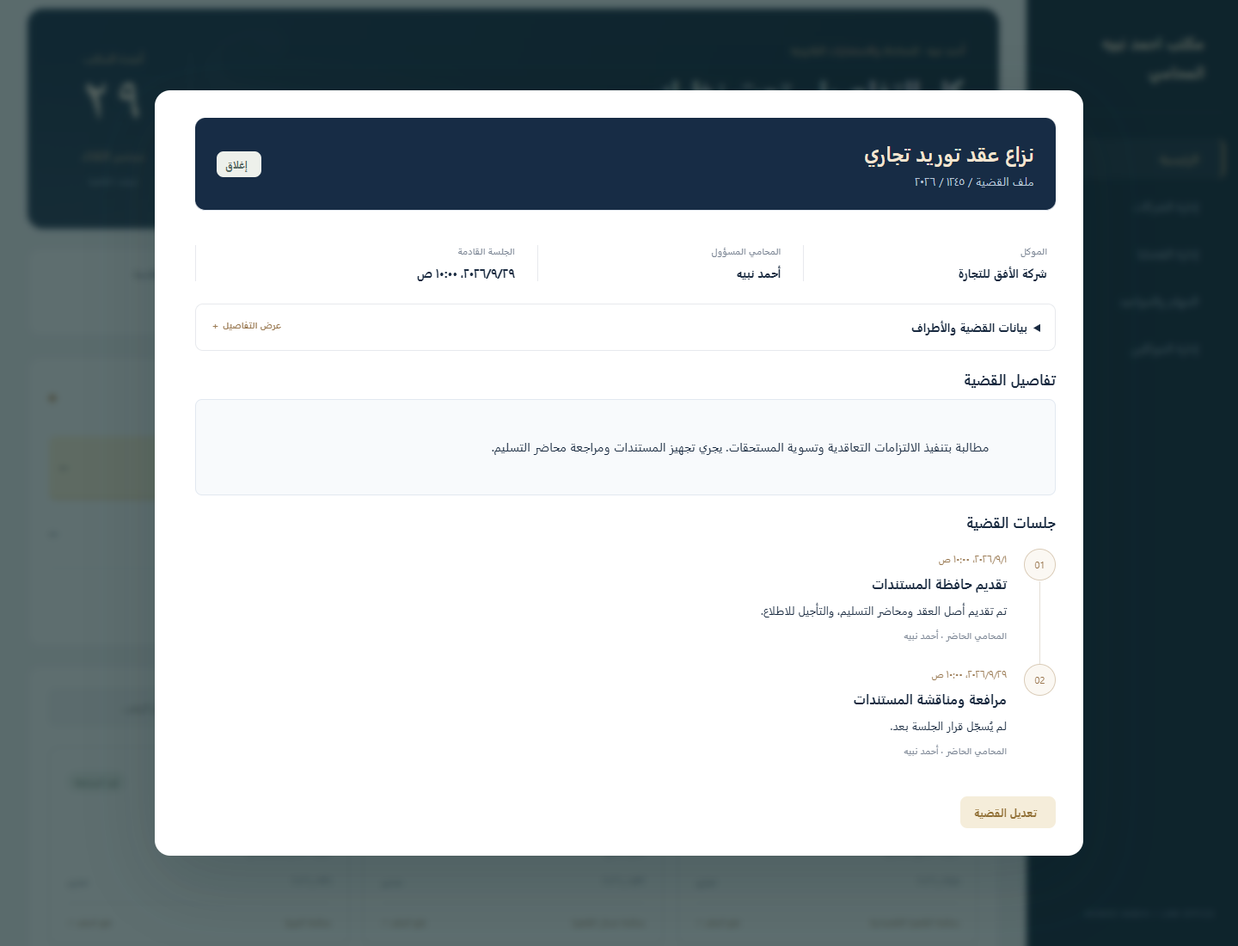
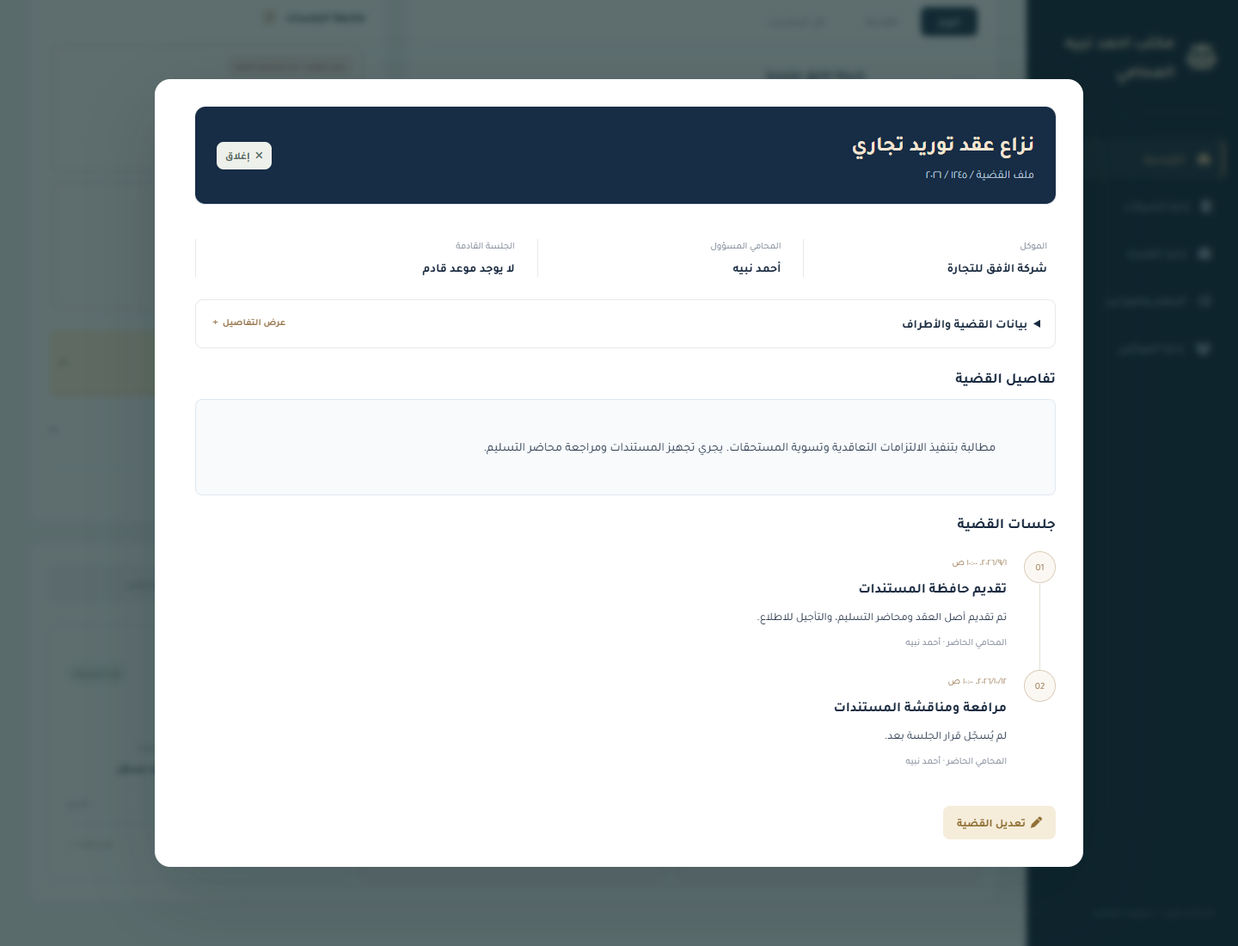
changes

diff --git a/experience.js b/experience.js
@@ -1,9 +1,30 @@
 /* Office overview: existing records and permissions remain the source of truth. */
 (() => {
   const e = escapeHtml;
-  const state = {sessions: [], tasks: [], filter: 'today', query: '', error: '', version: 0};
+  const state = {sessions: [], tasks: [], filter: 'today', query: '', error: '', version: 0, loaded: false, userId: null};
   const today = () => sessionDateForInput(new Date().toISOString()).slice(0, 10);
   const dateOf = value => value ? sessionDateForInput(value).slice(0, 10) : '';
+  const timestampOf = value => {
+    if (!value) return NaN;
+    try {
+      return Date.parse(/(Z|[+-]\d{2}:?\d{2})$/i.test(value) ? value : sessionDateForStorage(value));
+    } catch { return NaN; }
+  };
+  function caseSchedule(item, now = Date.now()) {
+    const dated = state.sessions.filter(s => String(s.case_id) === String(item.id))
+      .map(s => ({session: s, time: timestampOf(s.session_date)}))
+      .filter(s => Number.isFinite(s.time)).sort((a,b) => a.time - b.time);
+    const latest = dated.at(-1);
+    const next = dated.find(s => s.time >= now);
+    const overdue = Boolean(latest && latest.time < now && !['تمت','مؤرشفة'].includes(item.status));
+    return {latest, next, overdue};
+  }
+  function scheduleLabel(item) {
+    if (!state.loaded) return '<span class="case-session-note">جارٍ تحميل الجلسات…</span>';
+    if (state.error) return '<span class="case-session-note">تعذر تحميل موعد الجلسة</span>';
+    const {latest, overdue} = caseSchedule(item);
+    return `<span class="case-session-label">آخر جلسة مسجّلة</span><strong>${latest ? e(formatSessionDate(latest.session.session_date)) : 'لا يوجد موعد مسجّل'}</strong>${overdue ? '<span class="session-badge session-overdue">عدّى الموعد · حدّد الجلسة التالية</span>' : ''}`;
+  }
   const go = id => {
     const link = [...document.querySelectorAll('.sidebar a')].find(a => a.getAttribute('onclick')?.includes(`'${id}'`));
     switchPage(id, link);
@@ -26,12 +47,17 @@
   dock.innerHTML = `<button class="active" data-go="dashboard"><span>⌂</span>الرئيسية</button><button data-go="cases"><span>▤</span>القضايا</button><button data-go="tasks"><span>✓</span>المهام</button><button data-go="clients"><span>♙</span>الموكلون</button>`;
   document.body.append(dock);
   document.addEventListener('click', event => {
-    const button = event.target.closest('[data-go], [data-open-case], [data-period]');
+    const button = event.target.closest('[data-go], [data-open-case], [data-edit-case], [data-period]');
     if (!button) return;
     if (button.dataset.go) go(button.dataset.go);
     if (button.dataset.openCase) {
       const item = allCasesCache.find(c => String(c.id) === button.dataset.openCase);
       if (item) openCaseDetails(item.id);
+    }
+    if (button.dataset.editCase && isAdmin()) {
+      go('cases');
+      const item = allCasesCache.find(c => String(c.id) === button.dataset.editCase);
+      if (item) openEditModal(item.id);
     }
     if (button.dataset.period) {
       state.filter = button.dataset.period;
@@ -42,41 +68,68 @@
   document.getElementById('officeSearch').addEventListener('input', event => {state.query = event.target.value.trim().toLocaleLowerCase('ar');renderCards();});
   function renderCards() {
     const items = allCasesCache.filter(c => [c.name,c.client_name,c.case_number,c.court_name].some(v => String(v || '').toLocaleLowerCase('ar').includes(state.query)));
-    document.getElementById('officeCases').innerHTML = items.length ? items.slice(0,12).map(c => `<button class="case-card" data-open-case="${e(String(c.id))}"><div class="case-card-top"><span class="case-monogram">§</span><span class="case-status">${e(c.status || 'غير محددة')}</span></div><h3>${e(c.name || 'قضية بدون عنوان')}</h3><p>${e(c.client_name || 'لم يُحدد الموكل')}</p><div class="case-card-meta"><span>${e(c.case_number || '—')} / ${e(c.case_year || '—')}</span><span>${e(c.case_type || 'قضية')}</span></div><footer><span>${e(c.court_name || 'المحكمة غير محددة')}</span><span>فتح الملف ↗</span></footer></button>`).join('') : '<p class="empty-state">لا توجد قضايا مطابقة.</p>';
+    document.getElementById('officeCases').innerHTML = items.length ? items.map(c => `<button class="case-card${state.loaded && !state.error && caseSchedule(c).overdue ? ' case-needs-session' : ''}" data-open-case="${e(String(c.id))}"><div class="case-card-top"><span class="case-monogram">§</span><span class="case-status">${e(c.status || 'غير محددة')}</span></div><h3>${e(c.name || 'قضية بدون عنوان')}</h3><div class="case-client-session"><span class="case-client">${e(c.client_name || 'لم يُحدد الموكل')}</span><span class="case-session">${scheduleLabel(c)}</span></div><div class="case-card-meta"><span>${e(c.case_number || '—')} / ${e(c.case_year || '—')}</span><span>${e(c.case_type || 'قضية')}</span></div><footer><span>${e(c.court_name || 'المحكمة غير محددة')}</span><span>فتح الملف ↗</span></footer></button>`).join('') : '<p class="empty-state">لا توجد قضايا مطابقة.</p>';
+  }
+  function renderSessionReminders(day) {
+    if (!state.loaded) return '<p class="empty-state">جارٍ تحميل متابعة الجلسات…</p>';
+    if (state.error) return '<p class="empty-state">تعذر تحميل متابعة الجلسات.</p>';
+    const tomorrow = new Date(day + 'T12:00:00Z');
+    tomorrow.setUTCDate(tomorrow.getUTCDate() + 1);
+    const nextDay = tomorrow.toISOString().slice(0,10);
+    const reminders = allCasesCache.filter(c => !['تمت','مؤرشفة'].includes(c.status)).map(c => {
+      const schedule = caseSchedule(c);
+      return {c, ...schedule, due: schedule.overdue ? schedule.latest : schedule.next};
+    }).filter(r => r.overdue || (r.due && dateOf(r.due.session.session_date) <= nextDay))
+      .sort((a,b) => Number(b.overdue) - Number(a.overdue) || a.due.time - b.due.time);
+    if (!reminders.length) return '<p class="empty-state">لا توجد جلسات تحتاج متابعة اليوم أو غدًا.</p>';
+    return `<h3 class="session-reminders-heading">متابعة الجلسات <span>${reminders.length}</span></h3><div class="session-reminders">${reminders.map(({c,due,overdue}) => {
+      const label = overdue ? 'عدّى الموعد · حدّد الجلسة التالية' : dateOf(due.session.session_date) === day ? 'جلسة اليوم' : 'جلسة غدًا';
+      return `<div class="session-reminder${overdue ? ' session-reminder-overdue' : ''}"><button class="session-reminder-main" data-open-case="${e(String(c.id))}"><span class="session-badge ${overdue ? 'session-overdue' : 'session-upcoming'}">${label}</span><strong>${e(c.client_name || 'لم يُحدد الموكل')}</strong><small>${e(c.name || 'قضية بدون عنوان')} · ${e(formatSessionDate(due.session.session_date))}</small></button>${isAdmin() ? `<button class="session-followup" data-edit-case="${e(String(c.id))}">تحديث الجلسات ←</button>` : ''}</div>`;
+    }).join('')}</div>`;
   }
   function render() {
     const day = today();
-    const sessions = state.sessions.filter(s => allCasesCache.some(c => c.id === s.case_id));
+    const sessions = state.sessions.filter(s => Number.isFinite(timestampOf(s.session_date)) && allCasesCache.some(c => String(c.id) === String(s.case_id))).sort((a,b)=>timestampOf(a.session_date)-timestampOf(b.session_date));
     const visible = sessions.filter(s => state.filter === 'all' || (state.filter === 'today' ? dateOf(s.session_date) === day : dateOf(s.session_date) > day));
     document.getElementById('daySummary').textContent = `${sessions.filter(s => dateOf(s.session_date) === day).length} جلسات اليوم · ${state.tasks.filter(t=>!t.completed).length} مهام مفتوحة. يوم منظم يبدأ بصورة واضحة.`;
     document.getElementById('officeAgenda').innerHTML = state.error ? `<p class="empty-state">${e(state.error)}</p><button class="btn btn-secondary" id="retryAgenda">إعادة المحاولة</button>` : visible.length ? visible.slice(0,20).map(s => {
-      const c = allCasesCache.find(c=>c.id===s.case_id);
+      const c = allCasesCache.find(c=>String(c.id)===String(s.case_id));
       const label = s.session_date ? formatSessionDate(s.session_date) : 'بدون موعد';
-      return `<button class="agenda-row" data-open-case="${e(String(c.id))}"><span class="agenda-time">${e(label)}</span><span class="agenda-info"><strong>${e(c.name)}</strong><small>${e(s.session_subject || c.court_name || 'جلسة')} · ${e(s.attending_lawyer || 'المحامي غير محدد')}</small></span><span class="row-arrow">↗</span></button>`;
+      return `<button class="agenda-row" data-open-case="${e(String(c.id))}"><span class="agenda-time">${e(label)}</span><span class="agenda-info"><strong>${e(c.client_name || 'لم يُحدد الموكل')}</strong><small>${e(c.name)} · ${e(s.session_subject || c.court_name || 'جلسة')} · ${e(s.attending_lawyer || 'المحامي غير محدد')}</small></span><span class="row-arrow">↗</span></button>`;
     }).join('') : '<div class="quiet-state"><span>✓</span><h3>لا توجد جلسات في هذه الفترة</h3><p>يمكنك اختيار فترة أخرى أو إضافة جلسة من ملف القضية.</p></div>';
     document.getElementById('retryAgenda')?.addEventListener('click',window.refreshOfficeSessions);
     const overdue = state.tasks.filter(t=>!t.completed && (t.is_important || (t.due_date && t.due_date < day))).sort((a,b)=>Number(!!b.is_important)-Number(!!a.is_important));
-    document.getElementById('officePriorities').innerHTML = overdue.length ? overdue.slice(0,4).map(t=>`<button class="priority-item ${t.is_important ? 'task-important' : ''}" data-go="tasks"><span class="priority-mark">!</span><span><strong>${e(t.title || 'مهمة')}</strong><small>${t.is_important ? '★ مهمة جدًا · ' : ''}${t.due_date && t.due_date < day ? 'متأخرة · ' : ''}${e(t.due_date || 'بدون موعد')}</small></span><span>←</span></button>`).join('') : '<div class="quiet-state"><span>✓</span><h3>لا توجد مهام مهمة جدًا أو متأخرة</h3><p>تابع المهام القادمة للحفاظ على سير العمل.</p></div>';
+    document.getElementById('officePriorities').innerHTML = renderSessionReminders(day) + (overdue.length ? overdue.slice(0,4).map(t=>`<button class="priority-item ${t.is_important ? 'task-important' : ''}" data-go="tasks"><span class="priority-mark">!</span><span><strong>${e(t.title || 'مهمة')}</strong><small>${t.is_important ? '★ مهمة جدًا · ' : ''}${t.due_date && t.due_date < day ? 'متأخرة · ' : ''}${e(t.due_date || 'بدون موعد')}</small></span><span>←</span></button>`).join('') : '<div class="quiet-state"><span>✓</span><h3>لا توجد مهام مهمة جدًا أو متأخرة</h3><p>تابع المهام القادمة للحفاظ على سير العمل.</p></div>');
     renderCards();
   }
   window.updateOfficeTasks = tasks => {state.tasks = tasks || [];render();};
   window.refreshOfficeSessions = async () => {
-    if (!currentUser) return;
+    if (!currentUser) {state.version++;state.sessions=[];state.loaded=false;state.userId=null;state.tasks=[];state.error='';render();return;}
     const version = ++state.version, userId = currentUser.id;
+    if (state.userId !== userId) {state.sessions=[];state.loaded=false;state.error='';state.userId=userId;render();}
     try {
-      const {data,error} = await db.from('case_sessions').select('*').order('session_date',{ascending:true});
-      if (version !== state.version || currentUser?.id !== userId) return;
-      if (error) throw error;
-      state.sessions = data || []; state.error = '';
-    } catch { if (version !== state.version || currentUser?.id !== userId) return; state.sessions=[];state.error='تعذر تحميل الجلسات. تحقق من الاتصال وأعد المحاولة.'; }
+      // Read every page: older history must not hide the latest scheduled session.
+      const sessions = [], pageSize = 500;
+      for (let start = 0; ; start += pageSize) {
+        const {data,error} = await db.from('case_sessions').select('*').order('id',{ascending:true}).range(start,start + pageSize - 1);
+        if (version !== state.version || currentUser?.id !== userId) return;
+        if (error) throw error;
+        sessions.push(...(data || []));
+        if (!data || data.length < pageSize) break;
+      }
+      state.sessions = sessions; state.error = ''; state.loaded=true;
+    } catch { if (version !== state.version || currentUser?.id !== userId) return; state.sessions=[];state.loaded=true;state.error='تعذر تحميل الجلسات. تحقق من الاتصال وأعد المحاولة.'; }
     render();
   };
+  // Keep reminders current when a session time passes while the dashboard stays open.
+  setInterval(() => {if (currentUser && !document.hidden) render();}, 60000);
+  document.addEventListener('visibilitychange', () => {if (!document.hidden && currentUser) window.refreshOfficeSessions();});
   window.enhanceCaseWorkspace = (overlay,item,sessions) => {
     overlay.classList.add('case-workspace');
     const modal = overlay.querySelector('.details-modal');
     const heading = modal.querySelector('h2'); heading.textContent = item.name || 'ملف القضية';
     modal.querySelector('.details-modal-header small').textContent = `ملف القضية / ${item.case_number || '—'} / ${item.case_year || '—'}`;
-    const next = sessions.find(s=>s.session_date && dateOf(s.session_date)>=today());
+    const next = sessions.filter(s=>timestampOf(s.session_date)>=Date.now()).sort((a,b)=>timestampOf(a.session_date)-timestampOf(b.session_date))[0];
     const brief = document.createElement('div'); brief.className='case-brief';
     brief.innerHTML=`<div><span>الموكل</span><strong>${e(item.client_name || 'غير محدد')}</strong></div><div><span>المحامي المسؤول</span><strong>${e(item.assigned_lawyer || 'غير محدد')}</strong></div><div><span>الجلسة القادمة</span><strong>${next ? e(formatSessionDate(next.session_date)) : 'لا يوجد موعد قادم'}</strong></div>`;
     modal.querySelector('.details-modal-header').after(brief);

diff --git a/preview/index.html b/preview/index.html
@@ -2,7 +2,14 @@
 <html lang="ar" dir="rtl">
 <head>
     <meta charset="UTF-8">
-    <meta name="viewport" content="width=device-width, initial-scale=1.0">
+    <meta name="viewport" content="width=device-width, initial-scale=1.0, viewport-fit=cover">
+    <meta name="theme-color" content="#14253b">
+    <meta name="apple-mobile-web-app-capable" content="yes">
+    <meta name="apple-mobile-web-app-status-bar-style" content="default">
+    <meta name="apple-mobile-web-app-title" content="مكتب أحمد نبيه">
+
+    <link rel="icon" type="image/png" sizes="192x192" href="../icons/icon-192.png">
+    <link rel="apple-touch-icon" sizes="180x180" href="../icons/apple-touch-icon.png">
     <title>نظام إدارة مكتب احمد نبيه المحامي والشركات</title>
     <link rel="stylesheet" href="https://cdnjs.cloudflare.com/ajax/libs/font-awesome/6.4.0/css/all.min.css">
     <link href="https://fonts.googleapis.com/css2?family=Tajawal:wght@400;500;700&display=swap" rel="stylesheet">
@@ -299,8 +306,9 @@
     </style>
     <link rel="stylesheet" href="../theme.css">
     <!-- Supabase CDN -->
-    
+
 <link rel="stylesheet" href="../experience.css">
+    <link rel="stylesheet" href="../pwa.css">
 </head>
 
 <body>
@@ -310,6 +318,7 @@
             <div class="login-icon"><i class="fa-solid fa-scale-balanced"></i></div>
             <h2>مكتب احمد نبيه المحامي</h2>
             <p>تسجيل الدخول إلى النظام</p>
+            <button type="button" class="install-button install-login" data-install-app hidden><img src="../icons/icon-192.png" alt="" width="32" height="32"><span>المكتب معاك في كل مكان<small>إضافة التطبيق للشاشة الرئيسية</small></span><span aria-hidden="true">＋</span></button>
 
             <form id="loginForm" class="auth-form">
                 <div class="login-group">
@@ -369,6 +378,7 @@
             <button class="btn menu-toggle" type="button" aria-label="فتح القائمة" aria-expanded="false"><i class="fa-solid fa-bars"></i></button>
             <div class="header-context"><span>مساحة العمل</span><strong id="workspaceTitle">نظرة عامة</strong></div>
             <div class="user-info">
+                <button type="button" class="install-button install-header" data-install-app hidden aria-label="إضافة التطبيق للشاشة الرئيسية">＋ تثبيت التطبيق</button>
                 <i class="fa-solid fa-circle-user fa-lg"></i>
                 <span id="currentUserGreeting">جاري تحميل المستخدم...</span>
                 <button type="button" class="logout-btn" onclick="logoutUser()"><i class="fa-solid fa-right-from-bracket"></i> خروج</button>
@@ -528,6 +538,7 @@
 
                 <div class="panel">
                     <div class="panel-header"><h2>دليل الشركات المسجلة</h2></div>
+                    <div class="form-group management-search"><label for="companiesSearch">بحث في الشركات</label><input type="search" id="companiesSearch" placeholder="اسم الشركة، الرقم الضريبي أو بيانات التواصل" oninput="renderCompaniesTable(allCompaniesCache)"></div>
                     <table>
                         <thead>
                             <tr>
@@ -570,6 +581,7 @@
                         </div>
                         <div class="form-group"><label>رقم القضية</label><input type="text" id="caseNumber"></div>
                         <div class="form-group"><label>السنة</label><input type="text" id="caseYear" value="2026"></div>
+                        <div class="form-group"><label for="caseDescription">الوصف</label><input type="text" id="caseDescription"></div>
                         <div class="form-group"><label>المحكمة</label><input type="text" id="courtName"></div>
                         <div class="form-group"><label>الدائرة</label><input type="text" id="courtBranch"></div>
                         <div class="form-group"><label>المحامي المسؤول</label><input type="text" id="assignedLawyer"></div>
@@ -619,14 +631,15 @@
 
                 <div class="panel">
                     <div class="panel-header"><h2>جدول القضايا الشامل</h2></div>
+                    <div class="form-group management-search"><label for="casesSearch">بحث في القضايا</label><input type="search" id="casesSearch" placeholder="اسم القضية، الموكل، الخصم، الرقم أو المحكمة" oninput="renderCasesTable(allCasesCache)"></div>
                     <table style="width:100%;">
                         <thead>
                             <tr>
-                                <th>اسم القضية</th><th>الموكل</th><th>الخصم</th><th>النوع</th><th>رقم القضية/السنة</th><th>المحكمة / الدائرة</th><th>المحامي المسؤول</th><th>المرفق</th><th>الحالة</th><th>إجراءات</th>
+                                <th>اسم القضية</th><th>الموكل</th><th>الخصم</th><th>النوع</th><th>رقم القضية/السنة</th><th>الوصف</th><th>المحكمة / الدائرة</th><th>المحامي المسؤول</th><th>المرفق</th><th>الحالة</th><th>إجراءات</th>
                             </tr>
                         </thead>
                         <tbody id="casesTableBody">
-                            <tr><td colspan="10">جاري تحميل البيانات...</td></tr>
+                            <tr><td colspan="11">جاري تحميل البيانات...</td></tr>
                         </tbody>
                     </table>
                 </div>
@@ -685,6 +698,7 @@
 
                 <div class="panel">
                     <div class="panel-header"><h2>قائمة الموكلين</h2></div>
+                    <div class="form-group management-search"><label for="clientsSearch">بحث في الموكلين</label><input type="search" id="clientsSearch" placeholder="اسم الموكل أو رقم الهاتف" oninput="renderClientsTable(allClientsCache)"></div>
                     <table>
                         <thead>
                             <tr>
@@ -819,6 +833,7 @@
                 <div class="form-group"><label>نوع القضية</label><input type="text" id="editCaseType"></div>
                 <div class="form-group"><label>رقم القضية</label><input type="text" id="editCaseNumber"></div>
                 <div class="form-group"><label>السنة</label><input type="text" id="editCaseYear"></div>
+                <div class="form-group"><label for="editCaseDescription">الوصف</label><input type="text" id="editCaseDescription"></div>
                 <div class="form-group"><label>المحكمة</label><input type="text" id="editCourtName"></div>
                 <div class="form-group"><label>الدائرة</label><input type="text" id="editCourtBranch"></div>
                 <div class="form-group"><label>المحامي المسؤول</label><input type="text" id="editAssignedLawyer"></div>
@@ -847,12 +862,13 @@
         </div>
     </div>
 
-    
-    
-    
-    
-    
-    
+
+
+
+
+
+
+
 <style>.demo-notice{font-size:10px;color:#98744e}.logout-btn{display:none}</style><script>
 const demoDay = new Intl.DateTimeFormat('en-CA',{timeZone:'Africa/Cairo',year:'numeric',month:'2-digit',day:'2-digit'}).format(new Date());
 const demoCases = [
@@ -866,7 +882,7 @@ const demoSessions = [
  {id:3,case_id:2,session_date:demoDay+'T12:30',session_subject:'سماع أقوال الشهود',attending_lawyer:'سارة محمود',decision:''}
 ];
 const demoTasks=[{id:1,title:'مراجعة مذكرة الدفاع — الأفق',is_important:true,due_date:'2026-01-01',completed:false},{id:2,title:'استكمال مستندات التوكيل',due_date:'2026-01-02',completed:false},{id:3,title:'تجهيز ملف جلسة التعويض',due_date:demoDay,completed:false}];
-window.supabase={createClient:()=>({from(table){let filters=[];const q={select(){return q},order(){return q},eq(k,v){filters.push([k,v]);return q},then(resolve){let rows=table==='case_sessions'?demoSessions:table==='cases'?demoCases:table==='tasks'?demoTasks:[];return Promise.resolve(resolve({data:rows.filter(r=>filters.every(([k,v])=>r[k]===v)),error:null}));}};return q;}})};
+window.supabase={createClient:()=>({from(table){let filters=[],start=0,end=Infinity;const q={select(){return q},order(){return q},range(a,b){start=a;end=b;return q},eq(k,v){filters.push([k,v]);return q},then(resolve){let rows=table==='case_sessions'?demoSessions:table==='cases'?demoCases:table==='tasks'?demoTasks:[];return Promise.resolve(resolve({data:rows.filter(r=>filters.every(([k,v])=>r[k]===v)).slice(start,end+1),error:null}));}};return q;}})};
 </script><script src="../app.js"></script><script src="../workspace.js"></script><script src="../experience.js"></script><script>
 initializeApp=async()=>{
 currentUser={id:'demo'};currentProfile={role:'admin',status:'approved'};

diff --git a/experience.css b/experience.css
@@ -4,3 +4,5 @@
 @media(max-width:1150px){.sidebar{width:216px}.content{padding:22px}.case-cards{grid-template-columns:repeat(2,minmax(0,1fr))}.office-grid{grid-template-columns:1fr}.hero-date{min-width:120px}.workspace-intro{padding:30px}.workspace-intro h1{font-size:30px}.stat-card{padding:16px}}
 @media(max-width:760px){.content{padding:16px 14px 95px}.header{padding:12px 14px}.workspace-intro{padding:25px 22px;min-height:250px}.workspace-intro h1{font-size:28px;line-height:1.5}.workspace-intro p{font-size:12px;line-height:1.9}.hero-date{display:none}.hero-actions{gap:8px}.hero-actions .btn{font-size:12px}.stats-grid{gap:10px}.stat-card{gap:10px;padding:15px 12px}.stat-card .icon{width:32px;height:32px;font-size:15px}.stat-card .info h3{font-size:10px}.stat-card .info p{font-size:24px}.panel{padding:20px 16px}.office-grid{gap:16px;margin-bottom:16px}.case-cards{grid-template-columns:1fr}.case-search{width:100%;min-width:0;margin-top:12px}.agenda-row{gap:12px}.agenda-time{width:90px;font-size:11px}.agenda-info strong{font-size:13px}.mobile-dock{position:fixed;bottom:0;left:0;right:0;z-index:90;background:#fffffff5;backdrop-filter:blur(14px);border-top:1px solid var(--line);display:flex;padding:9px 8px max(9px,env(safe-area-inset-bottom));justify-content:space-around}.mobile-dock button{display:grid;gap:4px;justify-items:center;border:0;background:transparent;color:#8792a1;font-size:10px;min-width:60px;padding:4px;border-radius:8px}.mobile-dock button span{font-size:21px}.mobile-dock button.active{color:#9e7952;background:#f6f0e8}.case-workspace{padding:0}.case-workspace .details-modal{height:100dvh;max-height:100dvh;border-radius:0;padding:18px}.case-workspace .details-modal-header{padding:18px;gap:12px}.case-workspace .details-modal-header h2{font-size:19px}.case-brief{grid-template-columns:1fr;gap:16px;padding-top:0}.case-brief>div{border-left:0;border-bottom:1px solid var(--line);padding-bottom:12px}.case-facts summary span{display:none}.case-workspace .details-grid{grid-template-columns:1fr}.login-screen:not(.hidden)~.mobile-dock{display:none}}
 @media(prefers-reduced-motion:reduce){.case-card{transition:none}.case-card:hover{transform:none}}
+.case-client-session{display:grid;grid-template-columns:minmax(0,1fr) minmax(0,1.3fr);gap:12px;align-items:start;margin-top:12px}.case-client{font-size:12px;color:var(--muted);line-height:1.8}.case-session{display:grid;gap:6px;border-right:1px solid var(--line);padding-right:12px;font-size:11px;line-height:1.8}.case-session-label,.case-session-note{color:var(--muted);font-size:10px}.case-session strong{font-weight:600}.session-badge{display:inline-block;width:fit-content;max-width:100%;font-size:10px;line-height:1.8;padding:4px 8px;border-radius:7px}.session-overdue{background:#fbece9;color:#a13d32}.session-upcoming{background:#edf3fa;color:#345b86}.case-card.case-needs-session{border-color:#d9a49b;background:#fffdfc}.session-reminders-heading{display:flex;align-items:center;gap:8px;font-size:13px;margin:18px 0 8px}.session-reminders-heading span{font-size:11px;background:#f1e8dd;color:#8b653e;border-radius:15px;padding:3px 8px}.session-reminders{max-height:420px;overflow:auto;padding:2px}.session-reminder{border:1px solid var(--line);border-radius:10px;margin:10px 0;padding:12px}.session-reminder-overdue{border-color:#e8c6bf;background:#fffbfa}.session-reminder-main{display:grid;gap:8px;border:0;background:transparent;color:var(--ink);text-align:right;width:100%;cursor:pointer;overflow-wrap:anywhere}.session-reminder-main strong{font-size:13px}.session-reminder-main small{font-size:11px;line-height:1.9;color:var(--muted)}.session-followup{margin-top:10px;padding:7px 0;border:0;background:transparent;color:#806040;font-size:12px;cursor:pointer}.session-followup:focus-visible,.session-reminder-main:focus-visible{outline:2px solid var(--gold);outline-offset:3px}
+@media(max-width:760px){.case-client-session{grid-template-columns:minmax(0,1fr) minmax(0,1.3fr)}.session-reminders{max-height:360px}}

diff --git a/app.js b/app.js
@@ -1132,6 +1132,7 @@ async function logoutUser() {
     allCasesCache = [];
     allCompaniesCache = [];
     allClientsCache = [];
+    window.refreshOfficeSessions?.();
 
     const logoutButton =
         document.getElementById(
@@ -2243,6 +2244,7 @@ async function removeSessionRow(button) {
     }
 
     row.remove();
+    await window.refreshOfficeSessions?.();
 }
 
 function handleCaseTypeChange(
@@ -2404,7 +2406,7 @@ async function fetchCases() {
     renderCasesTable(
         allCasesCache
     );
-    window.refreshOfficeSessions?.();
+    await window.refreshOfficeSessions?.();
 }
 
 function renderCasesTable(
@@ -3495,6 +3497,7 @@ async function removeEditSessionRow(
     }
 
     row.remove();
+    await window.refreshOfficeSessions?.();
 }
 
 function closeEditModal() {

diff --git a/README.md b/README.md
@@ -1,5 +1,11 @@
 # تحديث واجهة مكتب المحاماة ومهام الشركات
 
+## متابعة جلسات القضايا في الرئيسية
+
+تعرض بطاقات ملفات القضايا اسم الموكل بجانب آخر موعد جلسة مسجّل (أحدث تاريخ بين جلسات القضية)، وتعرض الأجندة اسم الموكل مع القضية والموعد. قسم «تحتاج متابعتك» يذكّر بجلسات اليوم وغدًا، ويعلّم القضايا التي تجاوز آخر موعد مسجّل فيها الوقت الحالي ولم يُضف لها موعد لاحق. لا تظهر متابعة متأخرة للقضايا «تمت» أو «مؤرشفة». التنبيهات داخل التطبيق، وتتجدد كل دقيقة أثناء فتحه وعند العودة إليه، بتوقيت القاهرة.
+
+زر «تحديث الجلسات» يفتح تعديل القضية للمدير حسب الصلاحيات الحالية. إضافة جلسة لاحقة أو تعديل موعدها أو حذفها يحدّث التاريخ والتنبيه تلقائيًا. لا تتحول الجلسات القديمة إلى مهام منفصلة، ولا يُحذف تاريخها. عند فشل تحميل الجلسات تظهر رسالة وإعادة محاولة بدل استنتاج عدم وجود موعد. انشر `app.js` و`experience.js` و`experience.css`؛ لا يحتاج هذا التغيير SQL جديدًا. التحقق: `node tests/session-followup.cjs` و`node tests/session-time.cjs`.
+
 ## وصف القضية وحساب القضايا النشطة
 
 شغّل `migrations/008_case_description.sql` في Supabase SQL Editor قبل نشر `app.js` و`index.html` و`excel-export.js`. يضيف خانة نصية اختيارية «الوصف» بين السنة والمحكمة في الإضافة والتعديل، وتظهر في جدول القضايا والتفاصيل وExcel ويمكن البحث بها. لا يغير بيانات القضايا القديمة أو الصلاحيات. لم يتم تطبيق الترحيل على القاعدة الحية هنا. يشمل الوصف النسخ الاحتياطي الجديد تلقائيًا؛ أنشئ نسخة جديدة بعد الترحيل، لأن النسخ الأقدم لا تطابق توقيع بنية الجداول الجديد للاستعادة.
